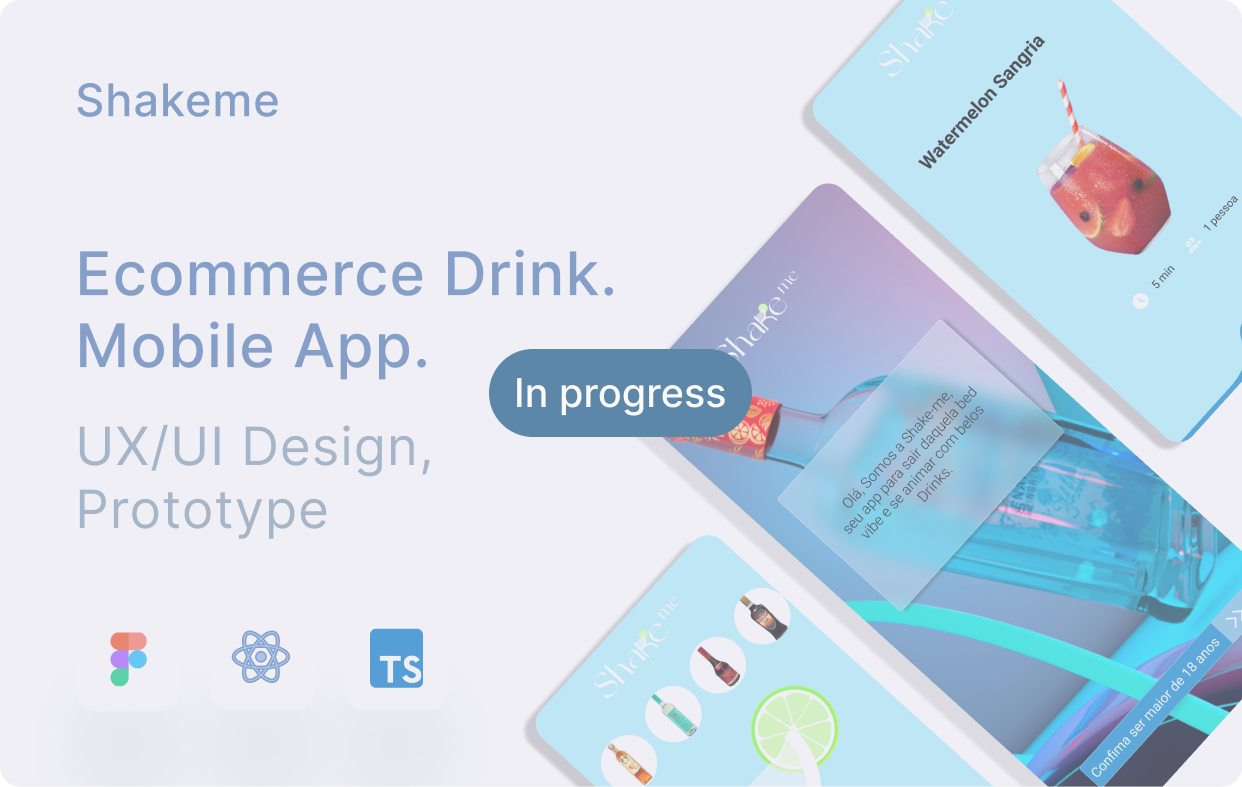
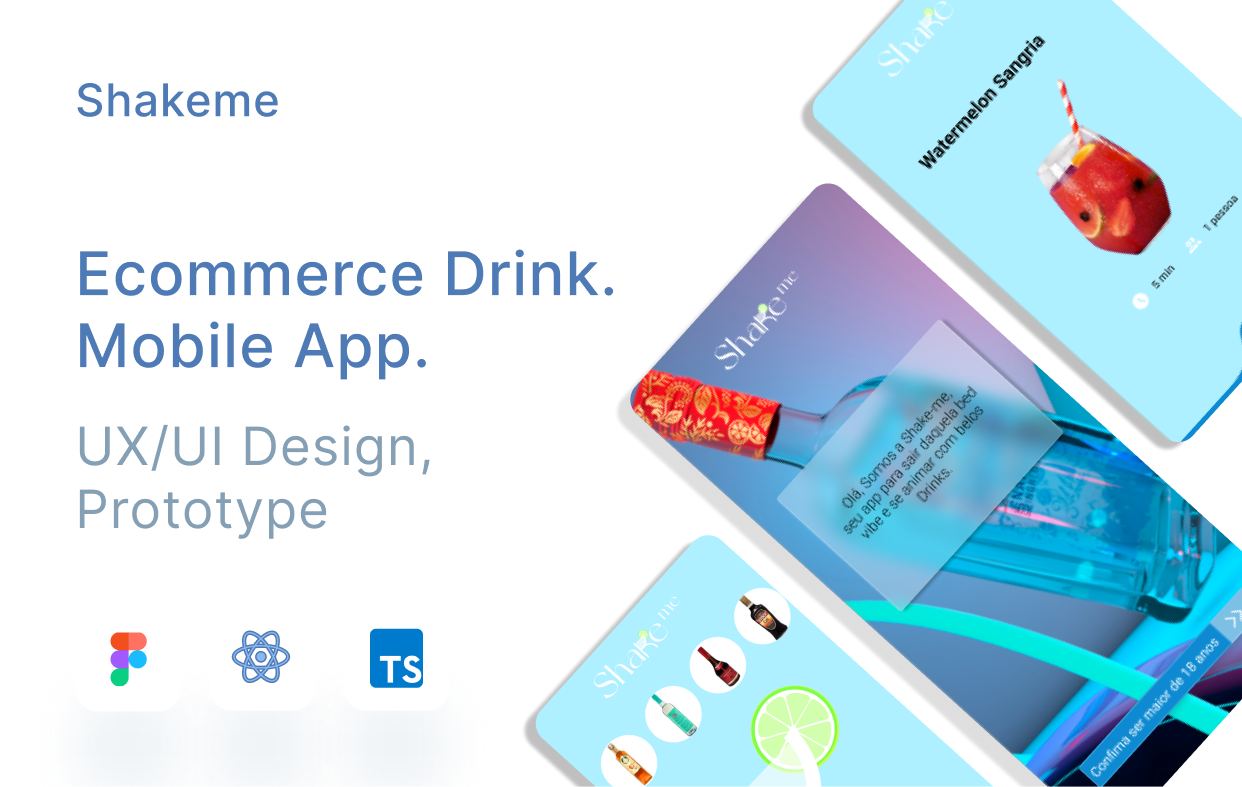
updates

diff --git a/src/components/capa/capa.jsx b/src/components/capa/capa.jsx
@@ -1,23 +1,69 @@
-import React from 'react';
-import 'bootstrap/dist/css/bootstrap.css';
-import Button from 'react-bootstrap/Button';
-import { Container, Col, Row, Stack } from 'react-bootstrap';
+import React from "react";
+import "bootstrap/dist/css/bootstrap.css";
+import Button from "react-bootstrap/Button";
+import { Container, Col, Row, Stack } from "react-bootstrap";
 import { motion } from "framer-motion";
-import IconPlay from '../../assets/svg/Play.svg'
-import './capa.css';
-import '../../Styles/ButtonStyle.css';
-import CarouNuka from './carousel-capa.jsx';
-import { useTranslation } from 'react-i18next';
+import IconPlay from "../../assets/svg/Play.svg";
+import "./capa.css";
+import "../../Styles/ButtonStyle.css";
+import CarouNuka from "./carousel-capa.jsx";
+import { useTranslation } from "react-i18next";
 
-import { ModalContato } from '../modalFrom/modal'
-
+import { ModalContato } from "../modalFrom/modal";
 
 export default function Capa() {
-	const { t } = useTranslation();
+  const { t } = useTranslation();
 
-	return (
-		<>
-			<Container fluid >
+  return (
+    <>
+      <Container fluid className="backgoundcaroussel">
+        <Row>
+          <Col className="centralized mt-5" sx={12}>
+            <h1 className="cols-auto h1-md">
+              {t("Info.capaTitle")} {t("Info.capaTitlebr")}{" "}
+              <span id="textdecoration">{t("Info.capaTitleDecoration")}</span>
+            </h1>
+            <p className="cols-auto p-subtitle1 mt-5">
+              {t("Info.capasubtitle")}
+             
+              {t("Info.capasubtitle2")}{" "}
+			  <span id="textdecoration">{t("Info.capasubtitle3")}</span>
+              {t("samllText")}
+            </p>
+
+            <Row className="centralized margemtop">
+              <Col sx={4} xs="auto" className="p-0 ">
+                <ModalContato>
+                  <button className="BtnPrimary">{t("btn.btn_Contact")}</button>
+                </ModalContato>
+              </Col>
+              <Col sx={8} xs="auto">
+                <div>
+                  <a
+                    href="https://www.instagram.com/laneartdesign/?hl=en"
+                    target="_blank"
+                    className="row row-cols-auto"
+                  >
+                    <img className="IconPlay" src={IconPlay} alt="Icon" />
+                    <motion.p
+                      initial={{ x: 100 }}
+                      animate={{ x: 0 }}
+                      transition={{ duration: 1, delay: 1 }}
+                      className="textIcon"
+                    >
+                      {t("text.textPlayIcon")}
+                      <br></br>
+                      {t("text.textPlayIcon2")}
+                    </motion.p>
+                  </a>
+                </div>
+              </Col>
+            </Row>
+          </Col>
+        </Row>
+      </Container>
+
+      {/* <Container fluid >
 				<Row>
 					<Col className="center grid" sx={12} md={6}>
 						<h1 className="cols-auto h1-md" >{t('Info.capaTitle')}<br></br>{t('Info.capaTitlebr')}<br></br><span id="textdecoration">{t('Info.capaTitleDecoration')}</span></h1>
@@ -44,7 +90,10 @@ export default function Capa() {
 						<CarouNuka></CarouNuka>
 					</Col>
 				</Row>
-			</Container>
-		</>
-	);
+			</Container> */}
+    </>
+  );
 }
+
+
+

diff --git a/src/components/portfolioInfogrid/projects.jsx b/src/components/portfolioInfogrid/projects.jsx
@@ -14,6 +14,9 @@ import Tumb6 from "./imgPortfolio/tumb6.png";
 import Tumb7 from "./imgPortfolio/tumb7.png";
 import Tumb8 from "./imgPortfolio/tumb8.png";
 import Tumb9 from "./imgPortfolio/tumb9.png";
+import Tumb10 from "./imgPortfolio/tumb10.png";
+import Tumb11 from "./imgPortfolio/tumb11.png";
+import Tumb12 from "./imgPortfolio/tumb12.png";
 
 //--icons import
 import Star from "./imgPortfolio/star2-icon.svg";
@@ -23,15 +26,55 @@ import Cube from "./imgPortfolio/cubes-icon.svg";
 export function ProjectsGrid() {
   return (
     <>
-      <Container>
-        <Row className="sizeprojects">
+    <Container>
+        <Row className="sizeprojects" >
+          <Col sm="auto" lg={4} className="TumbProjects">
+            <img src={Tumb10} className="mb-2 hover" alt="..." />
+            <img src={Tumb11} className="mb-2 hover" alt="..." />
+            <img src={Tumb12} className="mb-2 hover" alt="..." />
+          </Col>
+          </Row>
+          <Row>
           <Col sm="auto" lg={4} className="TumbProjects">
             <img src={Tumb1} className="mb-2 hover" alt="..." />
             <img src={Tumb2} className="mb-2 hover" alt="..." />
             <img src={Tumb3} className="mb-2 hover" alt="..." />
           </Col>
+          </Row>
+          <Row>
           <Col sm="auto" lg={4} className="TumbProjects">
             <img src={Tumb4} className="mb-2 hover" alt="..." />
+            <img src={Tumb5} className="mb-2 hover" alt="..." />
+            <img src={Tumb6} className="mb-2 hover" alt="..." />
+          </Col>
+          </Row>
+          <Row>
+          <Col sm="auto" lg={4} className="TumbProjects">
+            <img src={Tumb7} className="mb-2 hover" alt="..." />
+            <img src={Tumb8} className="mb-2 hover" alt="..." />
+            <img src={Tumb9} className="mb-2 hover" alt="..." />
+          </Col>
+        </Row>
+      </Container>
+
+
+
+
+
+      {/* <Container>
+        <Row className="sizeprojects">
+          <Col sm="auto" lg={4} className="TumbProjects">
+            <img src={Tumb10} className="mb-2 hover" alt="..." />
+            <img src={Tumb1} className="mb-2 hover" alt="..." />
+            <img src={Tumb4} className="mb-2 hover" alt="..." />
+          </Col>
+          <Col sm="auto" lg={4} className="TumbProjects">
+            <img src={Tumb11} className="mb-2 hover" alt="..." />
+            <img src={Tumb2} className="mb-2 hover" alt="..." />
+            <img src={Tumb3} className="mb-2 hover" alt="..." />
+          </Col>
+          <Col sm="auto" lg={4} className="TumbProjects">
+            <img src={Tumb12} className="mb-2 hover" alt="..." />
             <img src={Tumb5} className="mb-2 hover" alt="..." />
             <img src={Tumb6} className="mb-2 hover" alt="..." />
           </Col>
@@ -41,7 +84,7 @@ export function ProjectsGrid() {
             <img src={Tumb9} className="mb-2 hover" alt="..." />
           </Col>
         </Row>
-      </Container>
+      </Container> */}
     </>
   );
 }

diff --git a/src/components/capa/capa.css b/src/components/capa/capa.css
@@ -1,63 +1,74 @@
 .textIcon {
-    padding: 0px !important;
-    margin: 0px;
-    align-content: center;
-    display: flex;
-    align-items: center;
-    font-weight: normal;
-    font-size: 85%;
-    line-height: auto;
-    max-width: 80%;
-    align-items: left;
+  padding: 0px !important;
+  margin: 0px;
+  align-content: center;
+  display: flex;
+  align-items: center;
+  font-weight: normal;
+  font-size: 85%;
+  line-height: auto;
+  max-width: 80%;
+  align-items: left;
 }
 
 .h1-md {
-    font-weight: bold;
-    font-size: 5vw !important;
-    letter-spacing: -0.03em !important;
-    white-space: nowrap;
+  font-weight: bold;
+  font-size: 5vw !important;
+  letter-spacing: -0.03em !important;
+  /* white-space: nowrap; */
 }
 
 @media only screen and (max-width: 600px) {
-    .h1-md {
-        font-size: 200% !important;
-    }
+  .h1-md {
+    font-size: 200% !important;
+  }
+}
+
+.margemtop{
+    margin-top: 10%;
+}
+
+.backgoundcaroussel {
+  width: 100%;
+  height: 100vh;
+  background-image: url("./images-carousel/background.png");
+  background-repeat: no-repeat;
+  background-position: center;
+  background-size: fill;
 }
 
 .Carousel {
-    padding: 0px;
+  padding: 0px;
 }
 
 .CarouselImg {
-    margin: 0px;
-    padding: 0px;
-    width: 100%;
-    height: auto;
-    object-fit: fill;
-    border: none;
-    /* border: 3px solid #DA1F50; */
+  margin: 0px;
+  padding: 0px;
+  width: 100%;
+  height: auto;
+  object-fit: fill;
+  border: none;
+  /* border: 3px solid #DA1F50; */
 }
 
 .capasize {
-    display: absolute;
-    padding: 0px;
-    margin: 0px;
-    height: 80vh;
-    width: 80vw;
+  display: absolute;
+  padding: 0px;
+  margin: 0px;
+  height: 80vh;
+  width: 80vw;
 }
 
 .ml-center {
-    display: flex;
-    flex-direction: row;
-    justify-content: flex-start;
-    align-items: center;
-    margin-left: 0;
-    padding: 0;
+  display: flex;
+  flex-direction: row;
+  justify-content: flex-start;
+  align-items: center;
+  margin-left: 0;
+  padding: 0;
 }
 
-
 /* card-carousel */
-
 
 /* 
 .containercarousel {

diff --git a/src/components/portfolioInfogrid/portfolioinfogrid.jsx b/src/components/portfolioInfogrid/portfolioinfogrid.jsx
@@ -14,11 +14,11 @@ export default function Portfolioinfogrid() {
 		<>
 				  <Container fluid className="mr-0 mt-5">
 						  <Row className="mr-0">
-								<Col className="mr-0 " xs={12} md={6}>
+								<Col className="mr-0" sm={12} md={6} >
 								<h1 className="h1-md mt-5"> {t('portfolio.title')} <span id= "textdecoration">{t('portfolio.title1-2')}</span></h1>
 								<p className="p-subtitle textbox ">{t('portfolio.subtitle')}</p>
 								</Col>
-								<Col className="banner mr-0" xs={12} md={6}><BannerSvg ></BannerSvg></Col>
+								<Col className="banner mr-0" sm={12} md={6}><BannerSvg ></BannerSvg></Col>
 						  </Row>
 
 			</Container>

diff --git a/src/components/portfolioInfogrid/portfolio.css b/src/components/portfolioInfogrid/portfolio.css
@@ -1,16 +1,14 @@
 .banner {
-  position: relative;
-  display: flex;
-  justify-content: flex-end;
-  width: 100%;
-  height: auto;
-  object-fit: fill;
-  flex-wrap: nowrap;
-  align-content: flex-end;
+  display: absolute;
   flex-direction: row;
+  justify-content: flex-end;
+  height: 100vh;
+  object-fit: fill;
   overflow-x: hidden;
-  margin-top: -10%;
+  
 }
+
+
 
 @media screen and (max-width: 600px) {
   .banner svg {
@@ -29,8 +27,10 @@
 }
 
 .TumbProjects{
-  margin: auto;
-  max-width: 80%;
+  display: flex;
+  flex-direction: row;
+  gap: 5%;
+  
 }
 
 

diff --git a/src/Styles/GlobalStyles.jsx b/src/Styles/GlobalStyles.jsx
@@ -81,16 +81,13 @@ body{
 	background: #F6F6F6;
 }
 
-.TumbProjects{
-	background: rgba(255, 255, 255, 0.5);
-	
-}
 
 .hover{
 	transition:1s;
 
 	&:hover{
 		transform: translateY(-4%);
+	
 	}
 }
 
@@ -165,9 +162,6 @@ a.dropdown-item{
 	background: #252836;
 }
 
-.TumbProjects{
-	background: #252836;
-}
 
 .banner svg rect{
 	fill: #252735;

diff --git a/src/Styles/ButtonStyle.css b/src/Styles/ButtonStyle.css
@@ -2,7 +2,7 @@
     font-weight: bold !important;
     background: #d500f9;
     border: none !important;
-    box-shadow: 0px 4px 4px rgba(0, 0, 0, 0.15);
+    box-shadow: 0px 8px 10px rgba(213,0,249, 0.3);
     border-radius: 5px;
     padding: 5px 5px;
     width: 110px;

diff --git a/src/App.css b/src/App.css
@@ -66,6 +66,13 @@ a:-webkit-any-link {
   line-height: 100%;
 }
 
+
+.p-subtitle1 {
+  font-weight: normal;
+  font-size: 150%;
+  line-height: 100%;
+}
+
 .opacity-1 {
   opacity: 0.35;
 }
